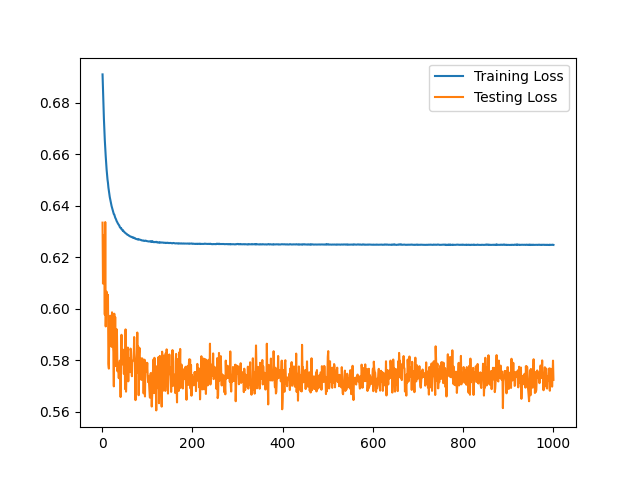
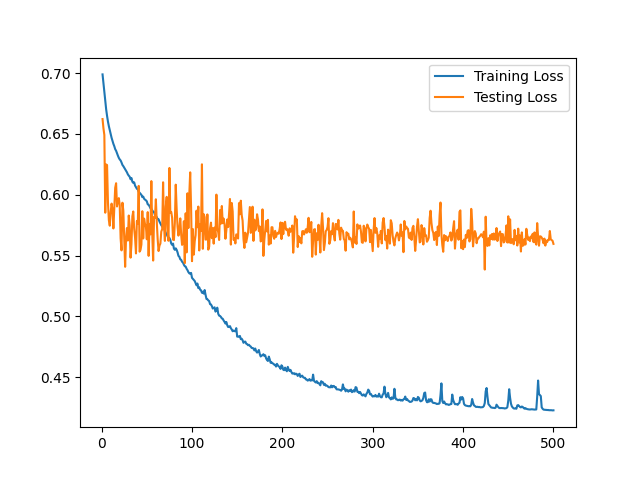
fix normalization

diff --git a/src/pipeline.py b/src/pipeline.py
@@ -13,17 +13,18 @@ from src.model.test import evaluate_model
 
 from src.eval.metric import GMean, ROCAUC
 from src.eval.visualize import plot_losses
-from utils import get_device, PREPROCESSED_FILE
+from utils import get_device, PREPROCESSED_FILE, LOANS_FILE
 
 
 
 def pipeline(
-        loans_file: Path | str = Path("data/accepted_2007_to_2018Q4.csv"),
+        loans_file: Path | str = LOANS_FILE,
         model: CREModel = CREModel(),
         nlp_model: Callable = StanfordNLP(),
         do_preprocessing: bool = True,
         epochs: int = 100,
         device: str | torch.device = get_device(),
+        preprocessed_data_file: Path = PREPROCESSED_FILE
     ) -> Any:
     
     print("Start preprocessing data...")
@@ -38,22 +39,22 @@ def pipeline(
         print(X_train.shape, train_desc.shape, y_train.shape)
 
         print("Saving preprocessed data...")
-        torch.save(X_train, PREPROCESSED_FILE.joinpath("X_train.pt"))
-        torch.save(train_desc, PREPROCESSED_FILE.joinpath("train_desc.pt"))
-        torch.save(y_train, PREPROCESSED_FILE.joinpath("y_train.pt"))
+        torch.save(X_train, preprocessed_data_file.joinpath("X_train.pt"))
+        torch.save(train_desc, preprocessed_data_file.joinpath("train_desc.pt"))
+        torch.save(y_train, preprocessed_data_file.joinpath("y_train.pt"))
 
-        torch.save(X_test, PREPROCESSED_FILE.joinpath("X_test.pt"))
-        torch.save(test_desc, PREPROCESSED_FILE.joinpath("test_desc.pt"))
-        torch.save(y_test, PREPROCESSED_FILE.joinpath("y_test.pt"))
+        torch.save(X_test, preprocessed_data_file.joinpath("X_test.pt"))
+        torch.save(test_desc, preprocessed_data_file.joinpath("test_desc.pt"))
+        torch.save(y_test, preprocessed_data_file.joinpath("y_test.pt"))
 
     if not do_preprocessing:
-        X_train = torch.load(PREPROCESSED_FILE.joinpath("X_train.pt"))
-        train_desc = torch.load(PREPROCESSED_FILE.joinpath("train_desc.pt"))
-        y_train = torch.load(PREPROCESSED_FILE.joinpath("y_train.pt"))
+        X_train = torch.load(preprocessed_data_file.joinpath("X_train.pt"))
+        train_desc = torch.load(preprocessed_data_file.joinpath("train_desc.pt"))
+        y_train = torch.load(preprocessed_data_file.joinpath("y_train.pt"))
 
-        X_test = torch.load(PREPROCESSED_FILE.joinpath("X_test.pt"))
-        test_desc = torch.load(PREPROCESSED_FILE.joinpath("test_desc.pt"))
-        y_test = torch.load(PREPROCESSED_FILE.joinpath("y_test.pt"))
+        X_test = torch.load(preprocessed_data_file.joinpath("X_test.pt"))
+        test_desc = torch.load(preprocessed_data_file.joinpath("test_desc.pt"))
+        y_test = torch.load(preprocessed_data_file.joinpath("y_test.pt"))
 
     X_train = X_train.to(device)
     train_desc = train_desc.to(device)

diff --git a/src/data/preprocess.py b/src/data/preprocess.py
@@ -1,4 +1,4 @@
-from src.data.features import select_features, DataType, features
+from src.data.features import select_features, DataType, features, features_numerical
 from src.data.stanfordnlp import StanfordNLP
 
 import pandas as pd
@@ -98,10 +98,10 @@ def normalize(
         return_scaler: bool = False
     ) -> None:
 
-    X_train = scaler.fit_transform(X_train)
-    X_test = scaler.transform(X_test)
+    X_train[features_numerical] = scaler.fit_transform(X_train[features_numerical])
+    X_test[features_numerical] = scaler.transform(X_test[features_numerical])
     # if X_dev:
-    X_dev = scaler.transform(X_dev)
+    X_dev[features_numerical] = scaler.transform(X_dev[features_numerical])
 
     if return_scaler:
         X_train, X_test, X_dev, scaler

diff --git a/main.py b/main.py
@@ -1,11 +1,24 @@
 from src.pipeline import pipeline
-from utils import get_device
+from utils import get_device, PREPROCESSED_FILE, LOANS_FILE
+
+from pathlib import Path
+
 
 if __name__ == "__main__":
+    use_sw = False
+    do_preprocessing=True
+
+    if use_sw:
+        preprocessed_file = PREPROCESSED_FILE
+    else:
+        preprocessed_file = Path("data/preprocessed_no_sw/") 
+    
     pipeline(
+        loans_file=LOANS_FILE,
         device=get_device(),
-        do_preprocessing=False,
-        epochs=100
+        do_preprocessing=do_preprocessing,
+        epochs=500,
+        preprocessed_data_file=preprocessed_file
     )
     
 

diff --git a/src/data/features.py b/src/data/features.py
@@ -104,6 +104,7 @@ desc_features = {
 }
 
 features = target_variable | loan_charac_features | credit_worthiness_features | solvency_features | desc_features
+features_numerical = [ ft for ft, dtype in features.items() if dtype == DataType.NUMERICAL or dtype == DataType.NUMERICAL_LOG ]
 
 def select_features(df: pd.DataFrame, one_hot_output: bool = True) -> pd.DataFrame:
     raw = df.copy()

diff --git a/utils.py b/utils.py
@@ -2,7 +2,8 @@ import torch
 from pathlib import Path
 
 
-PREPROCESSED_FILE = Path("data/preprocessed_no_sw/") # Path("data/preprocessed/")
+LOANS_FILE = Path("data/accepted_2007_to_2018Q4.csv")
+PREPROCESSED_FILE = Path("data/preprocessed/") # Path("data/preprocessed_no_sw/") 
 
 def get_device():
     if torch.cuda.is_available():
